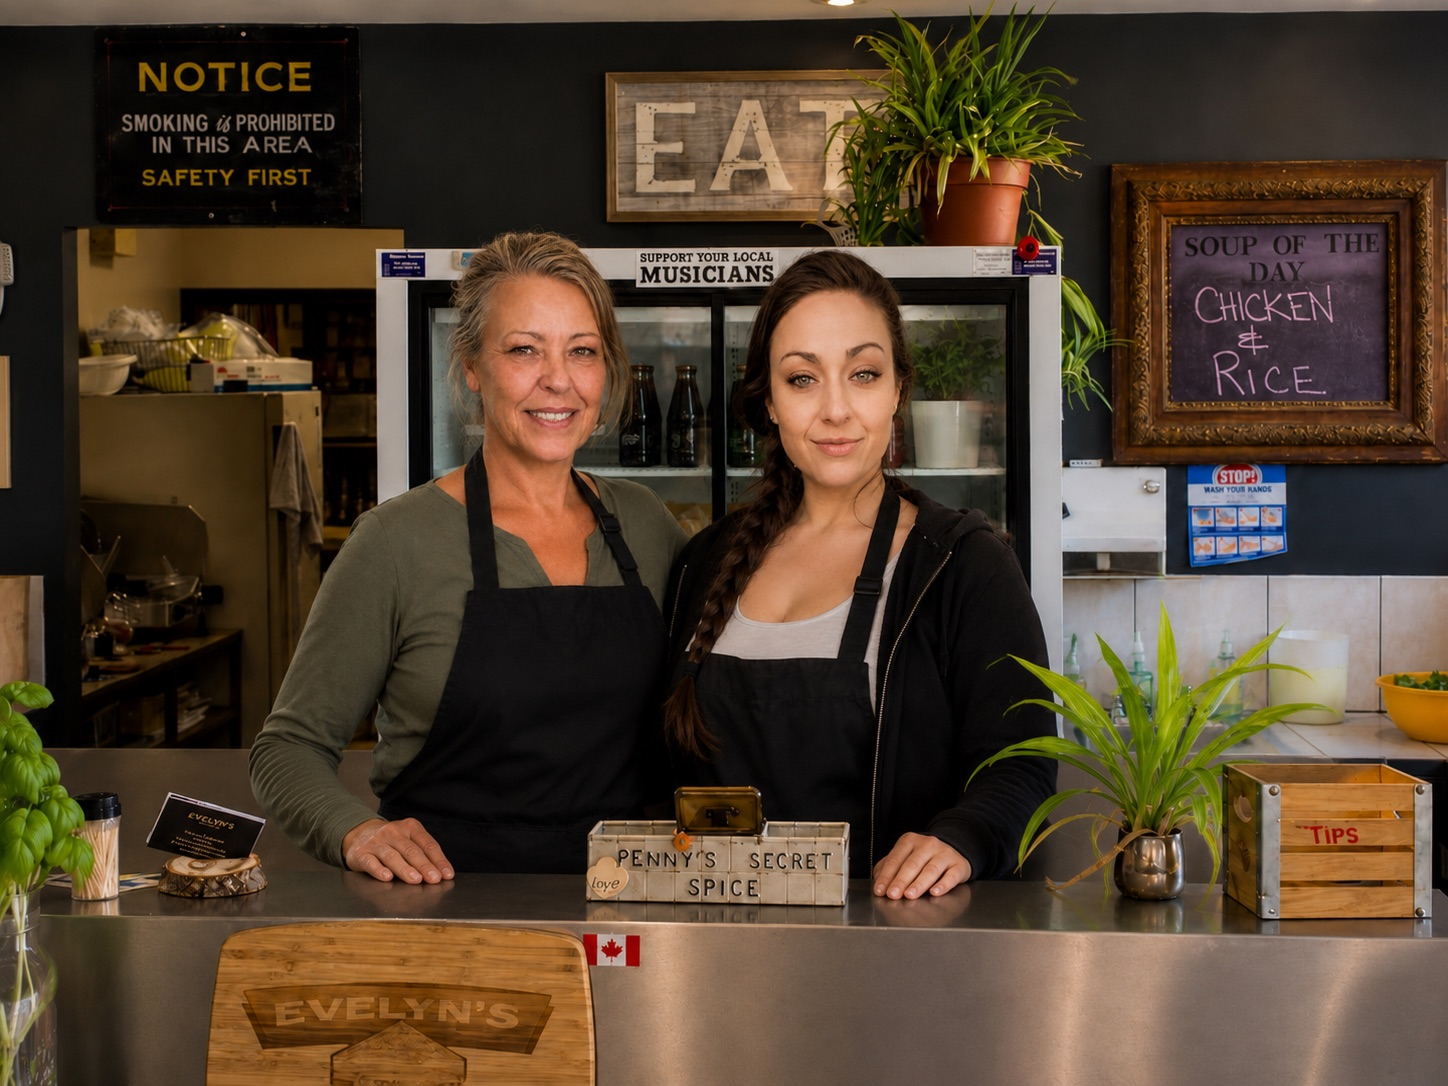
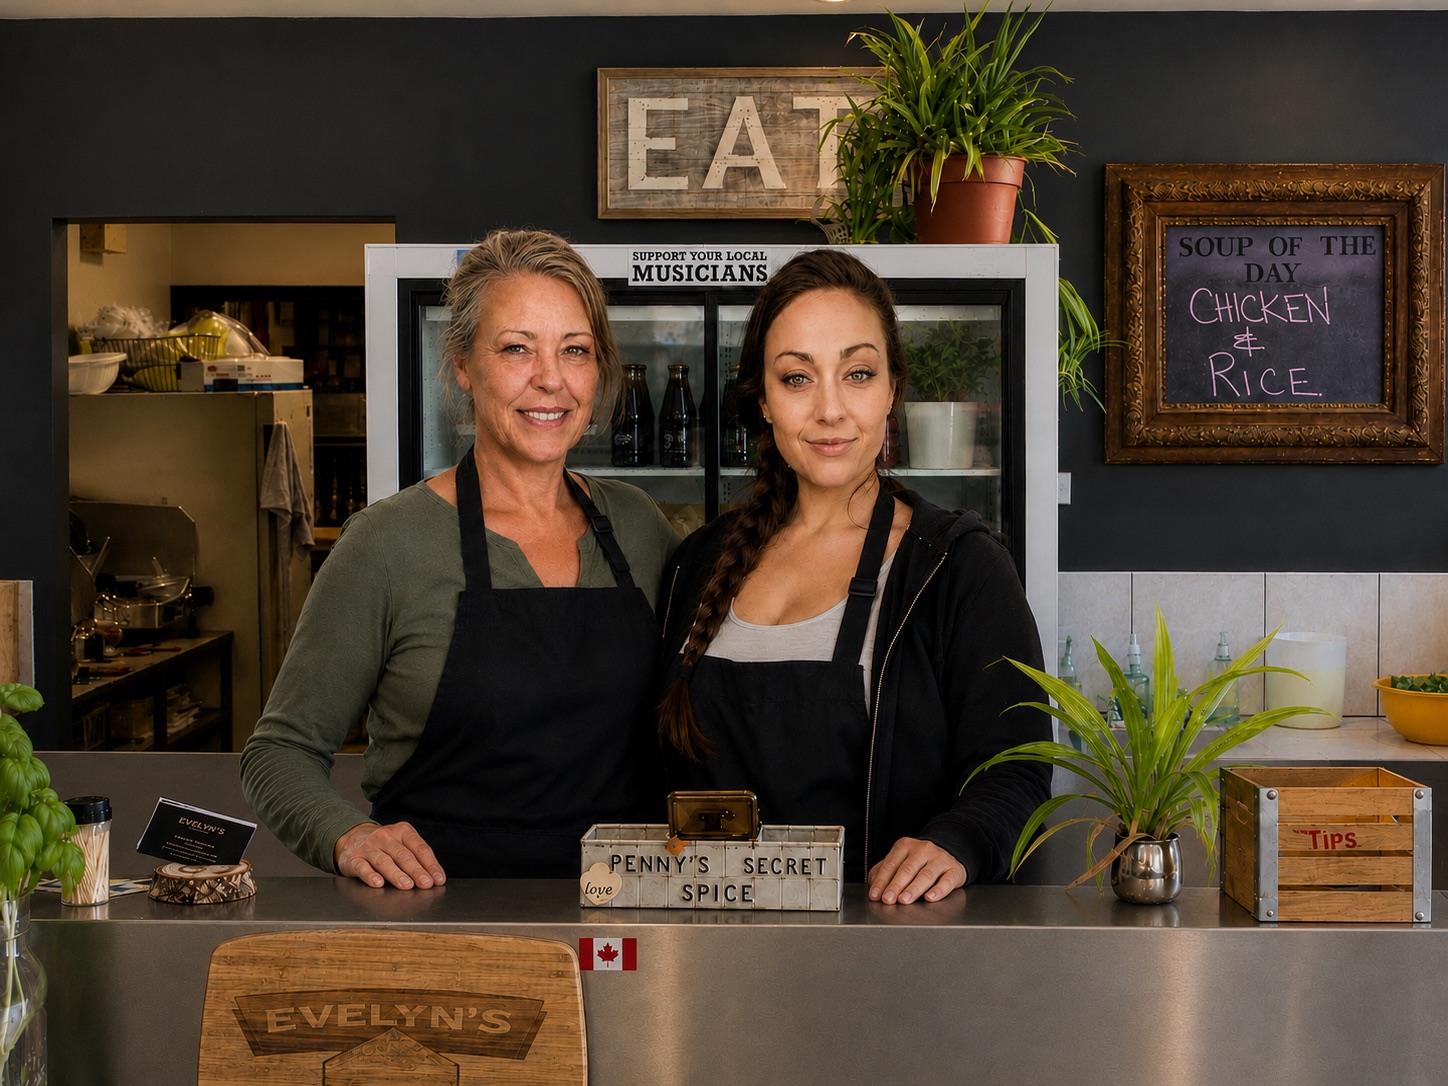
Use only the owners photo in Meet the Owners, sized down
Removes the flexing Evelyn portrait from the Story section and moves
the owners photo into the left column (column-sized, no longer the
full-width block) so it isn't oversized. Swaps in the fixed, tighter
owners crop and drops the now-unused portrait CSS.

diff --git a/index.html b/index.html
@@ -443,38 +443,6 @@
       align-items: center;
     }
 
-    /* Portrait frame — double-bezel, gold edge */
-    .portrait-shell {
-      background: linear-gradient(160deg, var(--cream-mid), var(--cream-dark));
-      border: 1px solid var(--gold);
-      border-radius: 2.25rem;
-      padding: 0.5rem;
-      box-shadow: 0 30px 70px -28px rgba(31,61,43,0.4);
-      position: relative;
-    }
-    .portrait-inner {
-      border-radius: calc(2.25rem - 0.35rem);
-      overflow: hidden;
-      aspect-ratio: 1122 / 1402;
-    }
-    .portrait-inner img { width: 100%; height: 100%; object-fit: cover; display: block; }
-
-    .portrait-badge {
-      position: absolute;
-      bottom: -1.1rem; right: 1.5rem;
-      background: var(--ink);
-      color: var(--gold);
-      font-family: var(--display);
-      font-weight: 400;
-      text-transform: uppercase;
-      font-size: 1.05rem;
-      letter-spacing: 0.05em;
-      padding: 0.7rem 1.2rem;
-      border-radius: 9999px;
-      border: 1px solid rgba(226,169,46,0.4);
-      box-shadow: 0 14px 30px -12px rgba(21,18,12,0.5);
-    }
-
     .evelyn-title {
       font-size: clamp(2.1rem, 3.6vw, 3.5rem);
       color: var(--ink);
@@ -505,7 +473,7 @@
     }
 
     /* Owners photo — the team behind the counter */
-    .team-photo { max-width: 1180px; margin: 4.5rem auto 0; }
+    .team-photo { margin: 0; }
     .team-frame {
       background: linear-gradient(160deg, var(--cream-mid), var(--cream-dark));
       border: 1px solid var(--gold);
@@ -888,8 +856,7 @@
 
       .evelyn { padding: 5rem 1.5rem; }
       .evelyn-inner { grid-template-columns: 1fr; gap: 3.5rem; }
-      .portrait-shell { max-width: 360px; margin: 0 auto; }
-      .team-photo { margin-top: 3rem; }
+      .team-photo { max-width: 480px; margin: 0 auto; }
 
       .menu { padding: 5rem 1.5rem; }
       .menu-grid { display: flex; flex-direction: column; }
@@ -1005,14 +972,16 @@
 <!-- ── Meet Evelyn & Nikita ──────────────────── -->
 <section class="evelyn" id="story" aria-label="Meet Evelyn and Nikita">
   <div class="evelyn-inner">
-    <div class="portrait-shell reveal">
-      <div class="portrait-inner">
-        <img src="evelyn-portrait.png" width="1122" height="1402"
-             alt="Evelyn, founder of Evelyn's Sandwich Factory, flexing while holding one of her loaded sandwiches"
-             loading="lazy">
+    <figure class="team-photo reveal">
+      <div class="team-frame">
+        <div class="team-frame-inner">
+          <img src="owners.jpg" width="1448" height="1086"
+               alt="Evelyn and Nikita behind the counter at Evelyn's Sandwich Factory in Welland"
+               loading="lazy">
+        </div>
       </div>
-      <div class="portrait-badge" aria-hidden="true">Est. 2001</div>
-    </div>
+      <figcaption class="team-cap"><b>Evelyn &amp; Nikita</b> — behind the counter in downtown Welland.</figcaption>
+    </figure>
 
     <div class="reveal">
       <div class="flourish"><span></span><i></i><span></span></div>
@@ -1034,16 +1003,6 @@
       </div>
     </div>
   </div>
-
-  <figure class="team-photo reveal">
-    <div class="team-frame">
-      <div class="team-frame-inner">
-        <img src="owners.jpg" alt="Evelyn and Nikita behind the counter at Evelyn's Sandwich Factory in Welland"
-             loading="lazy">
-      </div>
-    </div>
-    <figcaption class="team-cap"><b>Evelyn &amp; Nikita</b> — behind the counter in downtown Welland.</figcaption>
-  </figure>
 </section>
 
 <!-- ── Menu ──────────────────────────────────── -->